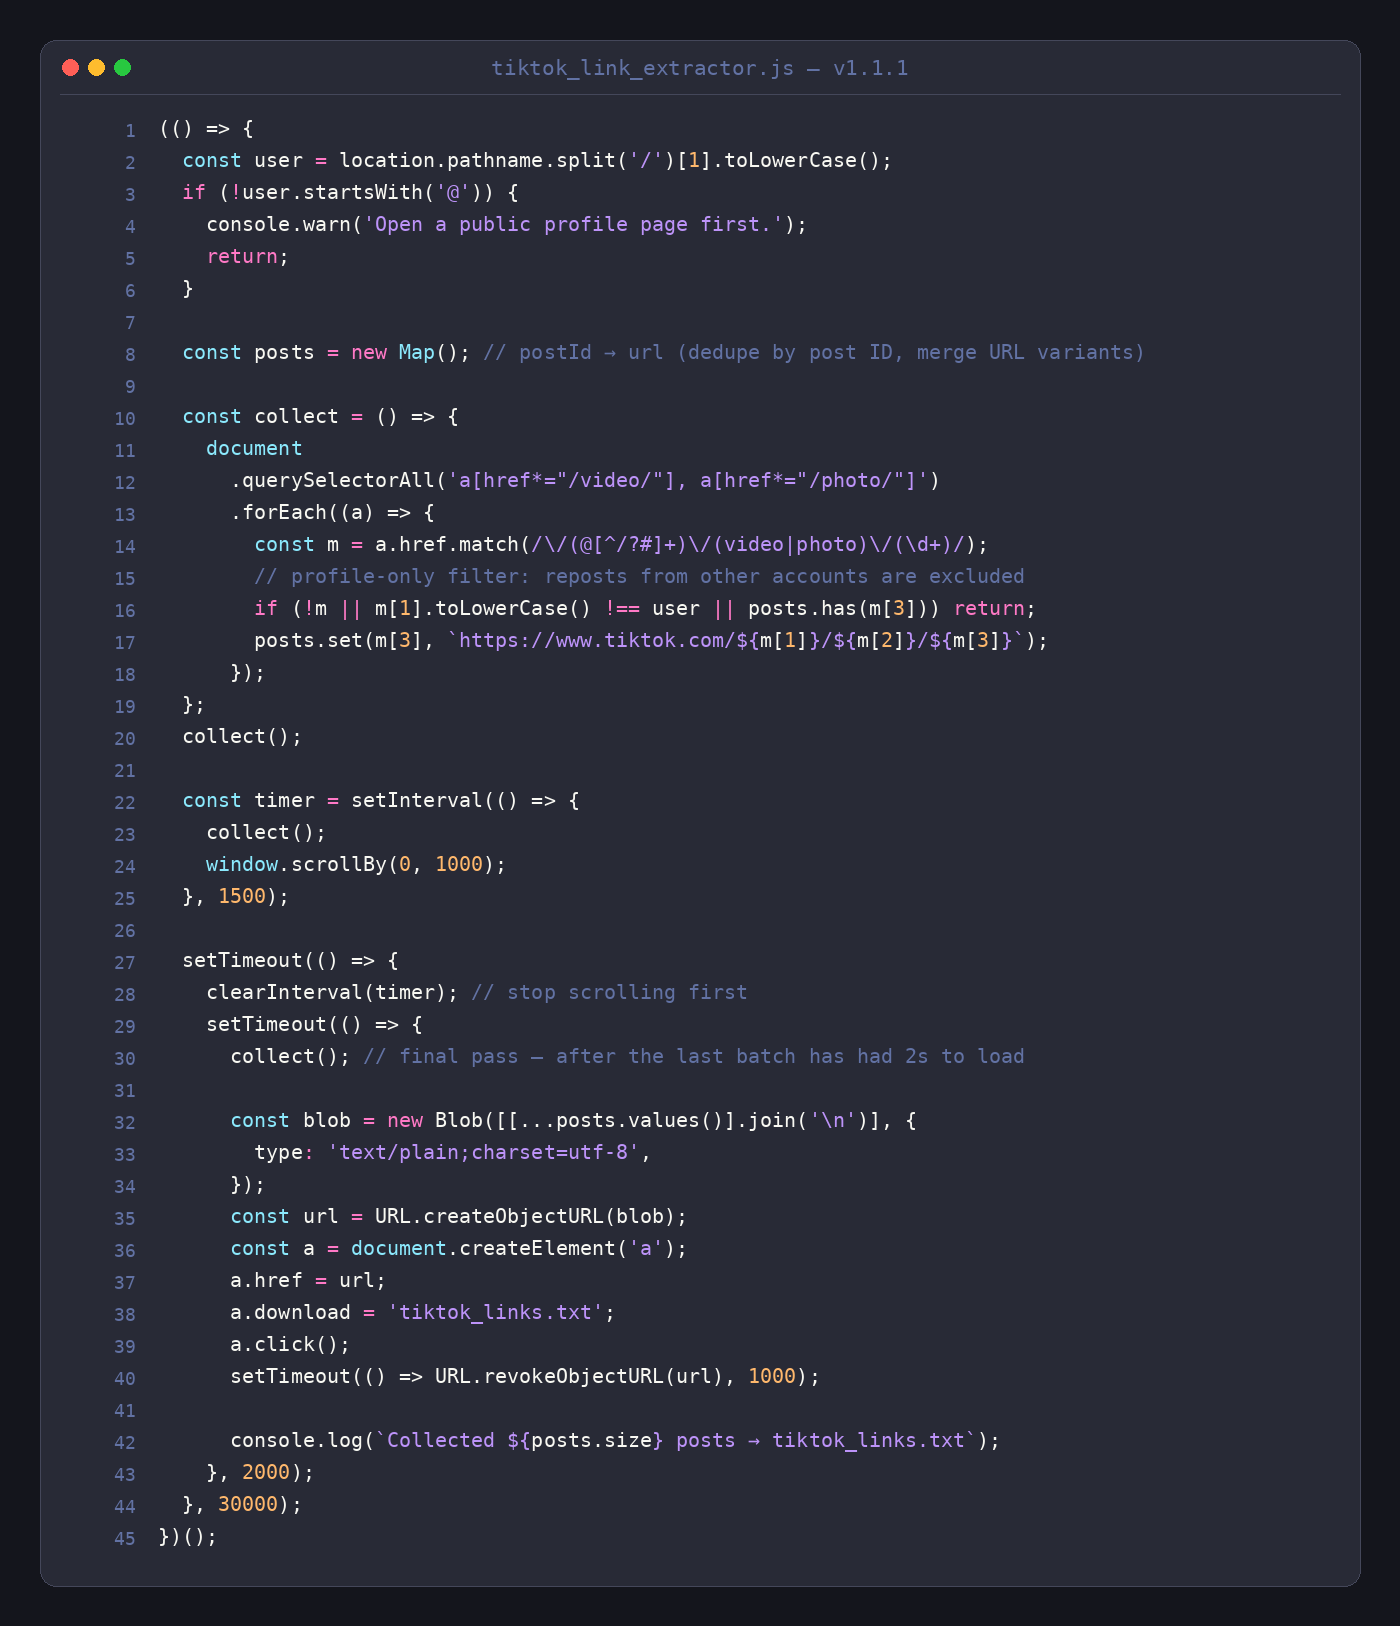
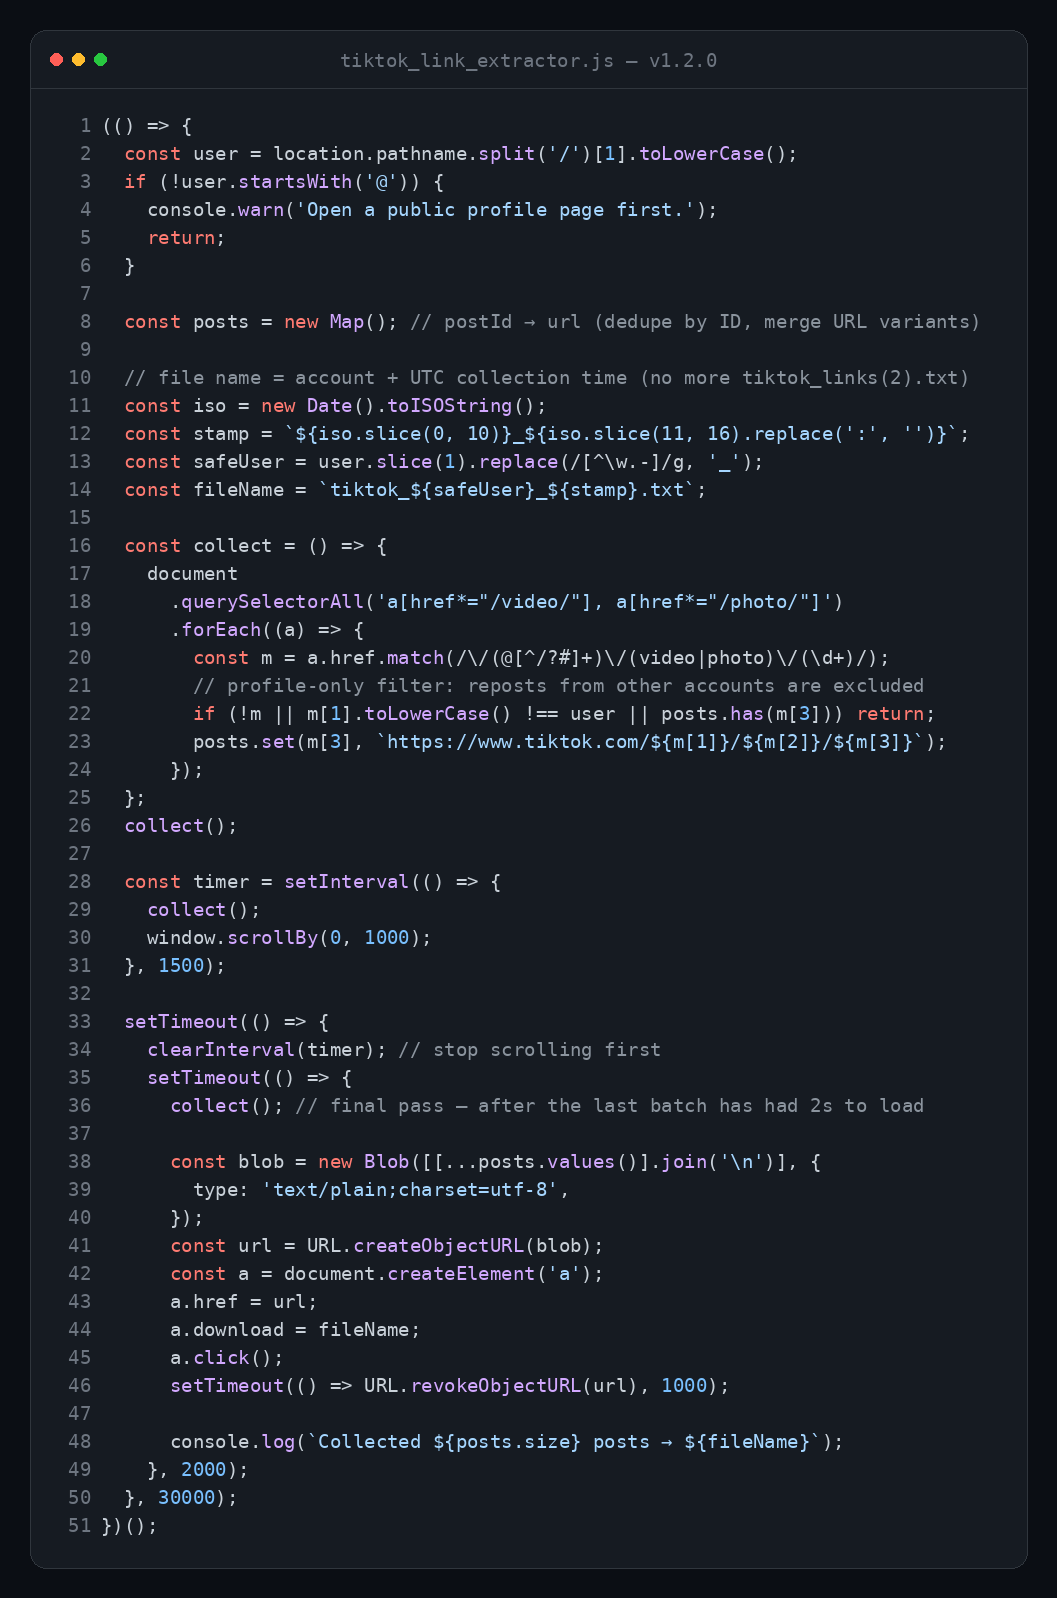
v1.2.0

diff --git a/social/twitter_thread.md b/social/twitter_thread.md
@@ -31,7 +31,7 @@ Ready-to-post promo material — Arabic + English.
 1⃣ افتح صفحة الحساب في كروم أو فايرفوكس
 2⃣ اضغط F12 ← تبويب Console
 3⃣ الصق الكود واضغط Enter
-4⃣ انتظر ~32 ثانية — سيتم تنزيل tiktok_links.txt
+4⃣ انتظر ~32 ثانية — سيتم تنزيل ملف نصي باسم الحساب وتاريخ الجمع
 
 📌 يجمع الكود الروابط الظاهرة في الصفحة أثناء التمرير؛ الحسابات الكبيرة تحتاج وقتًا أطول، ولا يضمن استخراج كل المنشورات.
 ```
@@ -44,19 +44,22 @@ Ready-to-post promo material — Arabic + English.
 ⚖ الأداة للبيانات العامة والاستخدام المشروع فقط — التفاصيل في ملف الإرشادات القانونية داخل المستودع.
 ```
 
-### كود الرد (يُنشر كصورة أو في منشور طويل) — نسخة v1.1.1
+### كود الرد (يُنشر كصورة أو في منشور طويل) — نسخة v1.2.0
 
 > الكود أدناه مطابق حرفيًا لملف `scripts/tiktok_link_extractor.js` في المستودع.
 > صورة `code_tweet.png` مولّدة من هذه النسخة.
 
 ```javascript
 /**
- * TikTok Link Extractor — Basic (v1.1.1)
+ * TikTok Link Extractor — Basic (v1.2.0)
  * ======================================
  * Usage: open a public profile → F12 → Console → paste → Enter,
- *        then wait ~32 seconds — tiktok_links.txt downloads automatically.
+ *        then wait ~32 seconds — the .txt file downloads automatically.
  *
  * Output: plain URLs, one per line — ready as a yt-dlp batch file.
+ *         The file name carries the account and the UTC collection time,
+ *         e.g. tiktok_username_2026-09-18_1305.txt
+ *
  * Notice: public data, educational/research use only.
  * Arabic guide: README.ar.md
  */
@@ -67,7 +70,13 @@ Ready-to-post promo material — Arabic + English.
     return;
   }
 
-  const posts = new Map(); // postId → url (dedupe by post ID, merge URL variants)
+  const posts = new Map(); // postId → url (dedupe by ID, merge URL variants)
+
+  // file name = account + UTC collection time (no more tiktok_links(2).txt)
+  const iso = new Date().toISOString();
+  const stamp = `${iso.slice(0, 10)}_${iso.slice(11, 16).replace(':', '')}`;
+  const safeUser = user.slice(1).replace(/[^\w.-]/g, '_');
+  const fileName = `tiktok_${safeUser}_${stamp}.txt`;
 
   const collect = () => {
     document
@@ -97,11 +106,11 @@ Ready-to-post promo material — Arabic + English.
       const url = URL.createObjectURL(blob);
       const a = document.createElement('a');
       a.href = url;
-      a.download = 'tiktok_links.txt';
+      a.download = fileName;
       a.click();
       setTimeout(() => URL.revokeObjectURL(url), 1000);
 
-      console.log(`Collected ${posts.size} posts → tiktok_links.txt`);
+      console.log(`Collected ${posts.size} posts → ${fileName}`);
     }, 2000);
   }, 30000);
 })();
@@ -130,7 +139,7 @@ Steps:
 1⃣ Open the profile page in Chrome or Firefox
 2⃣ Press F12 → Console tab
 3⃣ Paste the code and hit Enter
-4⃣ Wait ~32 seconds — tiktok_links.txt will download
+4⃣ Wait ~32 seconds — a .txt named after the account and date downloads
 
 📌 It only collects links visible while scrolling; large accounts may need more time, and it doesn't guarantee every post.
 ```
@@ -145,4 +154,4 @@ Steps:
 
 ### Reply Code (post as an image or long post)
 
-> نفس الكود أعلاه / Same code as above — identical to `scripts/tiktok_link_extractor.js` (v1.1.1), and `code_tweet.png` is generated from it.
+> نفس الكود أعلاه / Same code as above — identical to `scripts/tiktok_link_extractor.js` (v1.2.0), and `code_tweet.png` is generated from it.
